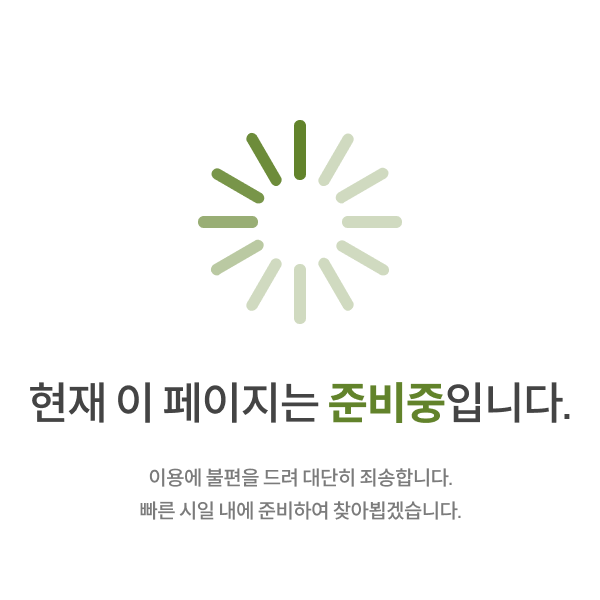
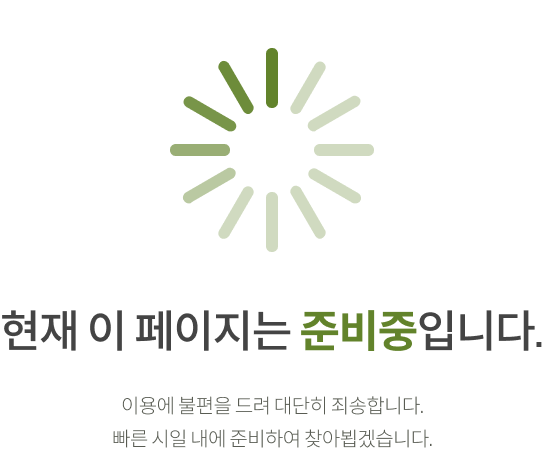
이소정 251010 -지도확인

Changed region(s): [[0.0, 0.614, 1.0, 0.9825], [0.3125, 0.0921, 0.6875, 0.5219], [0.4688, 0.5219, 0.5312, 0.5526]]

diff --git a/history/history.html b/history/history.html
@@ -17,11 +17,11 @@
         </header>
 
         <main>
-            <div class="sub_page_top">
+            <!-- <div class="sub_page_top">
                 <div class="inner">
                     <div class="text_area">
-                        <b>인사말</b>
-                        <p>ABOUT US</p>
+                        <b>연혁</b>
+                        <p>HISTORY</p>
                     </div>
                     <div class="select_sub_menu_area">
                         <a href="/index.html" class="home_btn" title="메인으로">
@@ -30,20 +30,20 @@
                         <span class="arrow"></span>
                         <div class="dropdown" data-drop-event="click">
                             <button class="dropdown_btn">
-                                <span>회사소개</span>
+                                <span>연혁</span>
                                 <span class="arrow"></span>
                             </button>
                             <ul class="dropdown_menu">
-                                <li class="on"><a href="/greeting/greeting.html">인사말</a></li>
+                                <li><a href="/greeting/greeting.html">인사말</a></li>
                                 <li><a href="/history/history.html">연혁</a></li>
-                                <li><a href="/location/location.html">오시는길</a></li>
+                                <li class="on"><a href="/business/business.html">사업분야</a></li>
                             </ul>
                         </div>
                     </div>
                 </div>
-            </div>
+            </div> -->
             <div class="inner">
-                <div class="greeting_wrap">
+                <!-- <div class="greeting_wrap">
                     <div class="greeting_text_area">
                         <span class="double_quotes text_top"></span>
                         <span class="double_quotes text_bottom"></span>
@@ -63,6 +63,9 @@
                     <div class="greeting_right">
                         <img src="/image/greeting_img.png" alt="이오기술" />
                     </div>
+                </div> -->
+                <div class="ready_page_wrap">
+                    <img src="/image/ready_page.png" alt="페이지 준비중입니다.">
                 </div>
             </div>
         </main>

diff --git a/index.html b/index.html
@@ -11,13 +11,17 @@
         <meta name="robots" content="index,follow" />
         <meta name="keywords" content="발효기, 배양기, 배합기, 발효사료기, 톱밥발효기, 미생물발효기, 톱밥배합기, 미생물배양기, 미생물배합기, 이오기술, 이오발효기, 이오기술 - 발효사료기, 건조기, 배양기전문" />
         <meta name="description" content="축산을 살리는 영순위 해결사 이오기술, 이오발효기 , 발효기,배양기,배합기,발효사료기,톱밥발효기,미생물발효기,톱밥배합기,미생물배양기,미생물발효기,톱밥배합기,미생물배합기,이오기술,이오발효기" />
-        <!-- <meta name="twitter:card" content="summary_large_image" /> -->
+        <meta name="twitter:card" content="summary_large_image" />
         <meta property="og:title" content="이오기술 - 발효사료기, 건조기, 배합기, 배양기전문" />
         <meta property="og:site_name" content="이오기술 - 발효사료기, 건조기, 배합기, 배양기전문" />
         <meta property="og:author" content="이오기술 - 발효사료기, 건조기, 배합기, 배양기전문" />
         <meta property="og:type" content="" />
         <meta property="og:description" content="축산을 살리는 영순위 해결사 이오기술, 이오발효기 , 발효기,배양기,배합기,발효사료기,톱밥발효기,미생물발효기,톱밥배합기,미생물배양기,미생물발효기,톱밥배합기,미생물배합기,이오기술,이오발효기" />
         <meta property="og:url" content="http://eo-tech.kr/" />
+
+        <meta property="og:image" content="/image/ex_banner.png">
+        <meta property="og:image:width" content="1200" />
+        <meta property="og:image:height" content="630" />
 
         <link rel="stylesheet" href="./css/common/common.css" />
         <link rel="stylesheet" href="./css/common/header.css" />
@@ -27,8 +31,7 @@
         <script src="./js/common/common.js"></script>
     </head>
     <body>
-        <header>
-        </header>
+        <header></header>
 
         <main>
             <div class="banner_area"></div>

diff --git a/location/location.html b/location/location.html
@@ -8,13 +8,14 @@
         <link rel="stylesheet" href="/css/common/common.css" />
         <link rel="stylesheet" href="/css/common/header.css" />
         <link rel="stylesheet" href="/css/location/location.css" />
-
+        
+        <script src="//dapi.kakao.com/v2/maps/sdk.js?appkey=999a9db9c2275bdb9262a9222254920f&autoload=false&libraries=services"></script>
         <script src="/js/common/jquery-3.7.1.min.js"></script>
         <script src="/js/common/common.js"></script>
+        <script src="/js/location/location.js"></script>
     </head>
     <body>
-        <header>
-        </header>
+        <header></header>
 
         <main>
             <div class="sub_page_top">
@@ -34,7 +35,7 @@
                                 <span class="arrow"></span>
                             </button>
                             <ul class="dropdown_menu">
-                                <li><a href="./greeting.html">인사말</a></li>
+                                <li><a href="/faq/faq.html">자주하는 질문</a></li>
                                 <li class="on"><a href="/location/location.html">오시는길</a></li>
                             </ul>
                         </div>
@@ -57,7 +58,8 @@
                             </tr>
                         </table>
                     </div>
-                    <div id="map">지도 API 연결 예정</div>
+                    <!-- <div id="map">지도 API 연결 예정</div> -->
+                    <div id="map" style="width: 100%; height: 500px"></div>
                 </div>
             </div>
         </main>

diff --git a/header/header.html b/header/header.html
@@ -16,7 +16,10 @@
                                 <a href="/greeting/greeting.html"><i>인사말</i></a>
                             </li>
                             <li>
-                                <a href="/business/business.html"><i>사업분야</i></a>
+                                <a href="/business/business.html"><i>연혁</i></a>
+                            </li>
+                            <li>
+                                <a href="/history/history.html"><i>사업분야</i></a>
                             </li>
                         </ul>
                     </div>
@@ -122,9 +125,9 @@
             // let indexWithoutNoDep = $(this).index();
             let gnbMenuId = $(this).attr("id");
             if (gnbMenuId === "gnbMenuGreeting") {
-                $(".header_bg").css("height", "138px");
+                $(".header_bg").css("height", "178px");
             } else if (gnbMenuId === "gnbMenuFmt") {
-                $(".header_bg").css("height", "612px");
+                $(".header_bg").css("height", "622px");
             } else if (gnbMenuId === "gnbMenuSupport") {
                 $(".header_bg").css("height", "138px");
             } else {

diff --git a/js/location/location.js b/js/location/location.js
@@ -1,0 +1,32 @@
+$(document).ready(function () {
+  // ✅ SDK가 로드된 후에 실행되도록 보장
+  kakao.maps.load(function () {
+    var mapContainer = document.getElementById("map");
+    var mapOption = {
+      center: new kakao.maps.LatLng(37.4069, 127.2904),
+      level: 4
+    };
+
+    var map = new kakao.maps.Map(mapContainer, mapOption);
+    var geocoder = new kakao.maps.services.Geocoder();
+
+    geocoder.addressSearch("경기 광주시 도척면 저수지길 30-78", function (result, status) {
+      if (status === kakao.maps.services.Status.OK) {
+        var coords = new kakao.maps.LatLng(result[0].y, result[0].x);
+
+        var marker = new kakao.maps.Marker({
+          map: map,
+          position: coords
+        });
+
+        var infowindow = new kakao.maps.InfoWindow({
+          content: '<div style="width:200px;text-align:center;padding:6px 0;">도척면 저수지길 30-78</div>'
+        });
+        infowindow.open(map, marker);
+        map.setCenter(coords);
+      } else {
+        alert("주소를 찾을 수 없습니다.");
+      }
+    });
+  });
+});

diff --git a/faq/faq.html b/faq/faq.html
@@ -34,6 +34,7 @@
                             </button>
                             <ul class="dropdown_menu">
                                 <li class="on"><a href="/faq/faq.html">자주하는 질문</a></li>
+                                <li><a href="/location/location.html">오시는길</a></li>
                             </ul>
                         </div>
                     </div>

diff --git a/css/common/common.css b/css/common/common.css
@@ -356,11 +356,11 @@ td {
 .list tr td:last-child {
     border-right: none;
 }
-.ready_page_wrap{
+.ready_page_wrap {
     width: 100%;
     height: 100%;
     display: flex;
     justify-content: center;
     align-items: center;
-    margin-top: 100px;
+    margin-top: 160px;
 }
